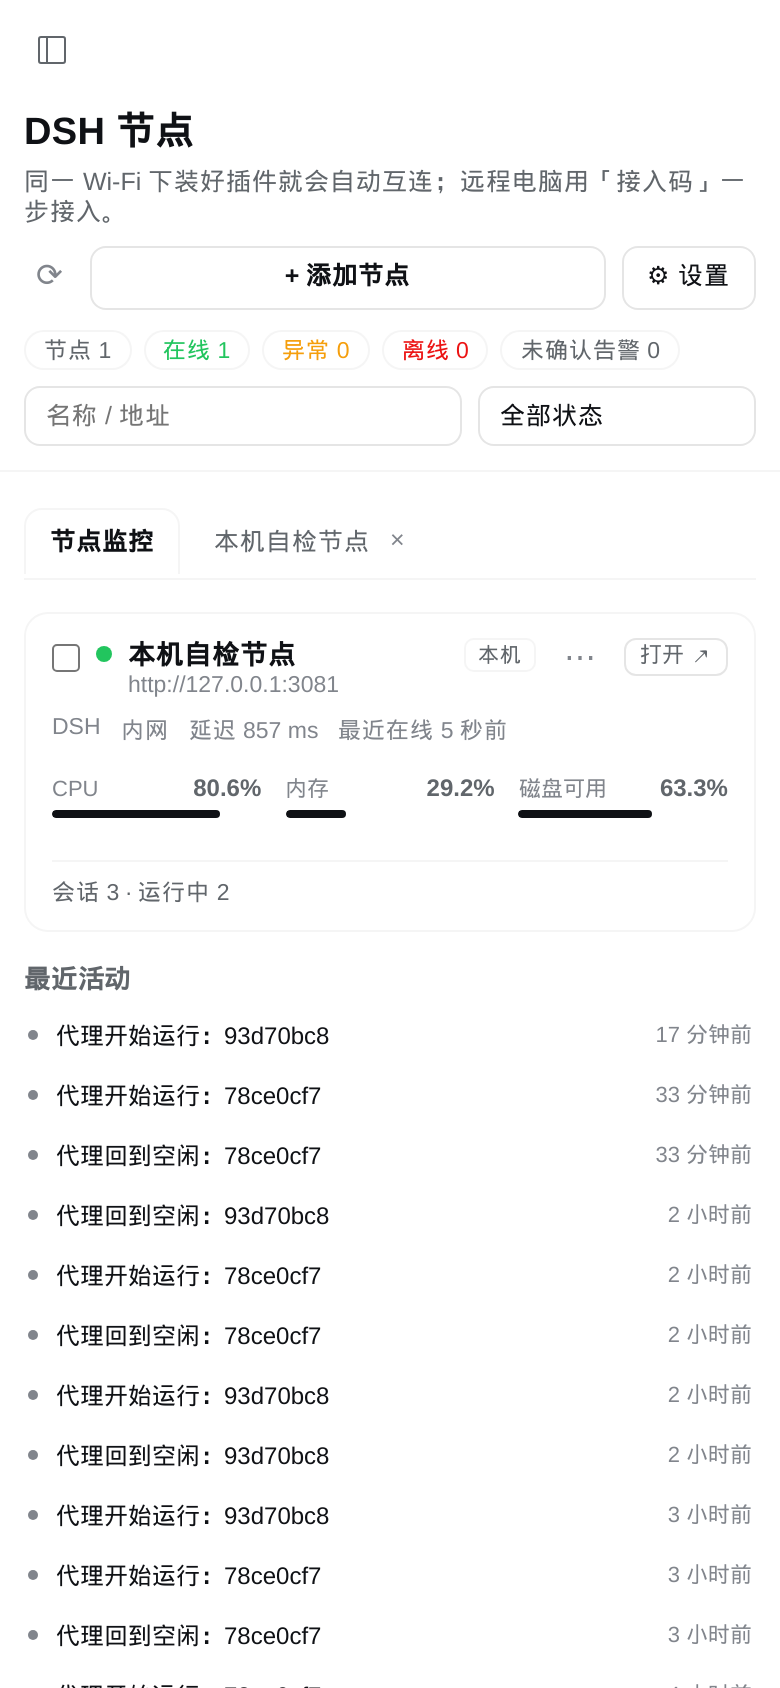
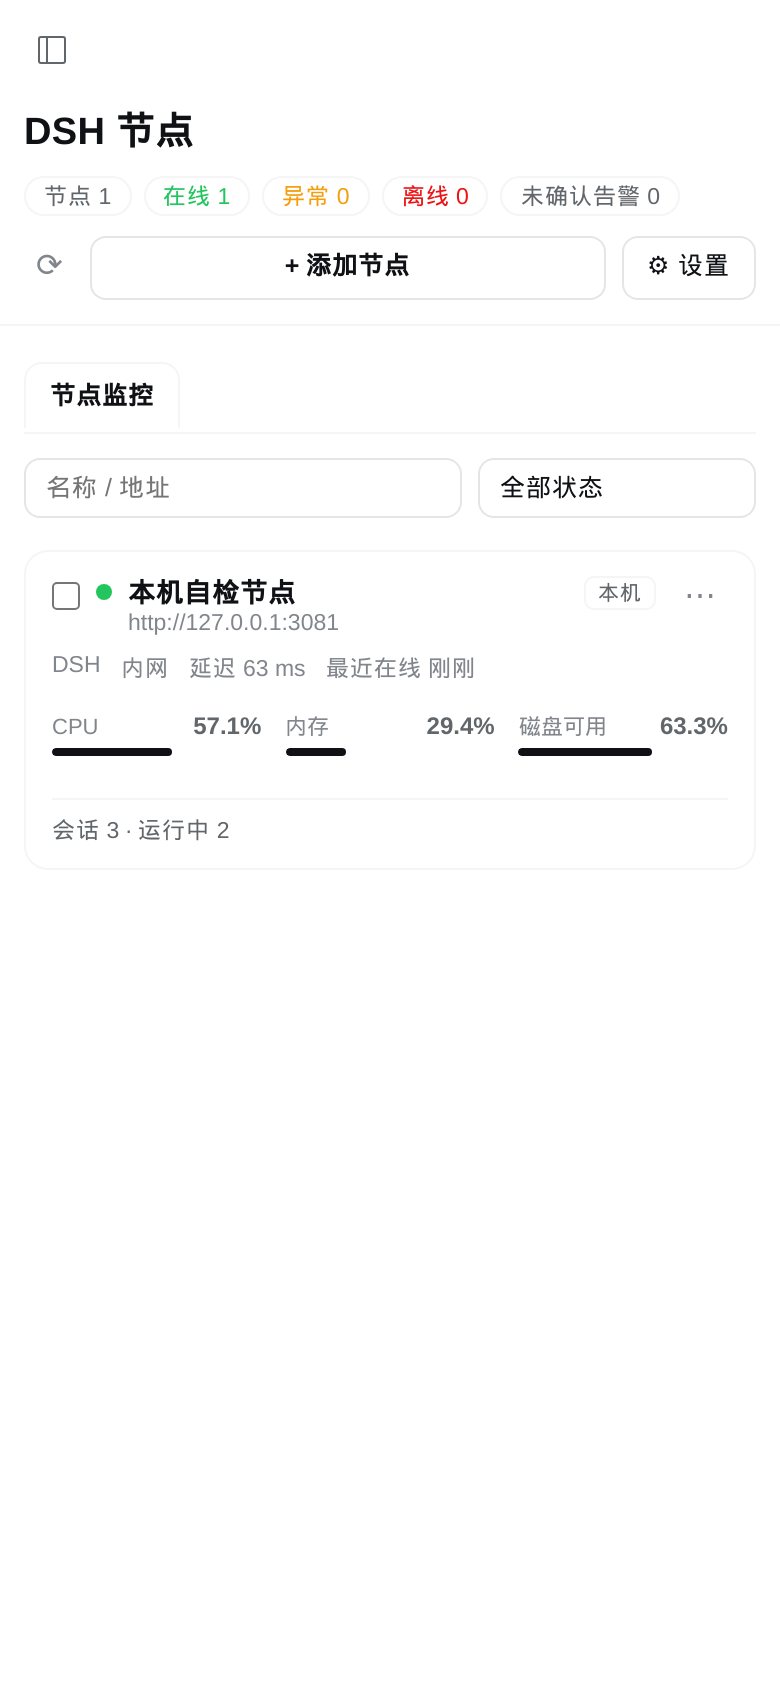
v0.10.6: compact two-row header
- Summary chips join the title line; search/status move to the tabs row
- Drop the subtitle to reclaim vertical space
- Tests 61 (34 core + 27 host)

diff --git a/lib/client.js b/lib/client.js
@@ -3074,13 +3074,8 @@ window.__ModuleLoader__.load({
 
       return h('div', { className: 'nm-panel' }, [
         h('header', { key: 'head', className: 'nm-head' }, [
-          h('div', { key: 'title', className: 'nm-title' }, [h('h2', { key: 'h' }, t('title')), h('p', { key: 'p' }, t('subtitle'))]),
-          h('div', { key: 'actions', className: 'nm-head-actions' }, [
-            h('button', { key: 'refresh', className: 'nm-icon-btn', title: t('actions.refresh'), disabled: st.busy, onClick: () => store.actions.load({ silent: false }) }, st.busy ? '…' : '⟳'),
-            h('button', { key: 'add', className: 'nm-btn nm-btn--primary', onClick: () => store.actions.openModal({ type: 'add' }) }, '+ ' + t('actions.add')),
-            h('button', { key: 'settings', className: 'nm-btn nm-btn--ghost', onClick: () => store.actions.openSettings('connect') }, '⚙ ' + t('actions.settings'))
-          ]),
-          h('div', { key: 'tools', className: 'nm-head-tools' }, [
+          h('div', { key: 'title', className: 'nm-title nm-title-line' }, [
+            h('h2', { key: 'h' }, t('title')),
             summary
               ? h('div', { key: 'summary', className: 'nm-summary' }, [
                   h(Chip, { key: 'nodes', tone: 'neutral' }, `${t('summary.nodes')} ${summary.total}`),
@@ -3089,30 +3084,16 @@ window.__ModuleLoader__.load({
                   h(Chip, { key: 'offline', tone: 'error' }, `${t('summary.offline')} ${summary.offline}`),
                   h(Chip, { key: 'alerts', tone: summary.alertsOpen > 0 ? 'error' : 'neutral' }, `${t('summary.alerts')} ${summary.alertsOpen}`)
                 ])
-              : null,
-            h('input', {
-              key: 'q',
-              className: 'nm-input nm-filter-search',
-              value: (st.filter || {}).q || '',
-              placeholder: t('filter.searchPlaceholder'),
-              'aria-label': t('filter.search'),
-              onChange: (event) => store.actions.setFilter({ q: event.target.value })
-            }),
-            h('select', {
-              key: 'status',
-              className: 'nm-input nm-filter-select',
-              value: (st.filter || {}).status || 'all',
-              onChange: (event) => store.actions.setFilter({ status: event.target.value })
-            }, [
-              h('option', { key: 'all', value: 'all' }, t('filter.statusAll')),
-              h('option', { key: 'online', value: 'online' }, t('status.online')),
-              h('option', { key: 'degraded', value: 'degraded' }, t('status.degraded')),
-              h('option', { key: 'offline', value: 'offline' }, t('status.offline')),
-              h('option', { key: 'unknown', value: 'unknown' }, t('status.unknown'))
-            ])
+              : null
+          ]),
+          h('div', { key: 'actions', className: 'nm-head-actions' }, [
+            h('button', { key: 'refresh', className: 'nm-icon-btn', title: t('actions.refresh'), disabled: st.busy, onClick: () => store.actions.load({ silent: false }) }, st.busy ? '…' : '⟳'),
+            h('button', { key: 'add', className: 'nm-btn nm-btn--primary', onClick: () => store.actions.openModal({ type: 'add' }) }, '+ ' + t('actions.add')),
+            h('button', { key: 'settings', className: 'nm-btn nm-btn--ghost', onClick: () => store.actions.openSettings('connect') }, '⚙ ' + t('actions.settings'))
           ])
         ]),
-        h('nav', { key: 'tabs', className: 'nm-tabs' }, [
+        h('div', { key: 'tabsRow', className: 'nm-tabs-row' }, [
+          h('nav', { key: 'tabs', className: 'nm-tabs' }, [
           h('button', {
             key: 'monitor',
             className: 'nm-tab' + (st.tab === 'monitor' ? ' nm-tab--active' : ''),
@@ -3135,6 +3116,29 @@ window.__ModuleLoader__.load({
               }, '×')
             ])
           )
+          ]),
+          h('div', { key: 'tabTools', className: 'nm-tabs-tools' }, [
+            h('input', {
+              key: 'q',
+              className: 'nm-input nm-filter-search',
+              value: (st.filter || {}).q || '',
+              placeholder: t('filter.searchPlaceholder'),
+              'aria-label': t('filter.search'),
+              onChange: (event) => store.actions.setFilter({ q: event.target.value })
+            }),
+            h('select', {
+              key: 'status',
+              className: 'nm-input nm-filter-select',
+              value: (st.filter || {}).status || 'all',
+              onChange: (event) => store.actions.setFilter({ status: event.target.value })
+            }, [
+              h('option', { key: 'all', value: 'all' }, t('filter.statusAll')),
+              h('option', { key: 'online', value: 'online' }, t('status.online')),
+              h('option', { key: 'degraded', value: 'degraded' }, t('status.degraded')),
+              h('option', { key: 'offline', value: 'offline' }, t('status.offline')),
+              h('option', { key: 'unknown', value: 'unknown' }, t('status.unknown'))
+            ])
+          ])
         ]),
         st.error ? h('div', { key: 'error', className: 'nm-banner' }, [h('span', { key: 'text' }, st.error), h('button', { key: 'retry', className: 'nm-btn nm-btn--ghost', onClick: () => store.actions.load({ silent: false }) }, t('actions.retry'))]) : null,
         st.phase === 'loading' && !data ? h('div', { key: 'loading', className: 'nm-loading' }, [h(Spinner, { key: 's' }), h('span', { key: 't' }, t('loading'))]) : null,
@@ -3181,7 +3185,7 @@ window.__ModuleLoader__.load({
 .nm-drawer-body { flex:1; overflow-y:auto; padding:16px 20px 28px; }
 .nm-drawer-stack { display:flex; flex-direction:column; gap:18px; }
 .nm-panel { display:flex; flex-direction:column; gap:14px; padding:22px 24px 34px; height:100%; overflow-y:auto; box-sizing:border-box; color:var(--dsw-alias-label-primary); font-size:13px; }
-.nm-head { display:flex; align-items:flex-start; justify-content:space-between; gap:16px; flex-wrap:wrap; }
+.nm-head { display:flex; align-items:center; justify-content:space-between; gap:10px 16px; flex-wrap:wrap; }
 .nm-title h2 { margin:0; font-size:19px; font-weight:650; letter-spacing:.2px; }
 .nm-title p { margin:5px 0 0; color:var(--dsw-alias-label-secondary); font-size:12.5px; }
 .nm-head-actions { display:flex; gap:8px; flex-wrap:wrap; }
@@ -3193,11 +3197,14 @@ window.__ModuleLoader__.load({
 .nm-icon-btn { border:none; background:transparent; color:var(--dsw-alias-label-tertiary); cursor:pointer; font-size:16px; line-height:1; padding:3px 6px; border-radius:6px; }
 .nm-icon-btn:hover { background:var(--dsw-alias-interactive-bg-hover); color:var(--dsw-alias-label-primary); }
 
-.nm-head-tools { flex:0 0 100%; display:flex; align-items:center; gap:8px; flex-wrap:wrap; }
-.nm-head-tools .nm-summary { gap:6px; }
-.nm-head-tools .nm-chip { padding:2px 9px; font-size:11.5px; }
-.nm-head-tools .nm-filter-search { flex:1 1 200px; max-width:340px; }
-.nm-head-tools .nm-filter-select { width:auto; min-width:110px; }
+.nm-title-line { display:flex; align-items:center; gap:10px 14px; flex-wrap:wrap; min-width:0; }
+.nm-title-line .nm-summary { gap:6px; flex-wrap:wrap; }
+.nm-title-line .nm-chip { padding:2px 9px; font-size:11.5px; }
+.nm-tabs-row { display:flex; align-items:center; gap:12px; flex-wrap:wrap; margin:-6px 0 2px; }
+.nm-tabs-row .nm-tabs { flex:1 1 auto; min-width:0; margin:0; }
+.nm-tabs-tools { display:flex; align-items:center; gap:8px; margin-left:auto; }
+.nm-tabs-tools .nm-filter-search { flex:0 1 220px; width:220px; min-width:120px; }
+.nm-tabs-tools .nm-filter-select { flex:0 0 auto; width:auto; min-width:110px; }
 .nm-summary { display:flex; gap:8px; flex-wrap:wrap; }
 .nm-chip { display:inline-flex; align-items:center; gap:6px; border-radius:999px; padding:3px 10px; font-size:12px; background:var(--dsw-alias-bg-layer-2); border:1px solid var(--dsw-alias-border-l1); color:var(--dsw-alias-label-secondary); }
 .nm-chip--ok { color:var(--dsw-alias-state-success-primary); }
@@ -3269,10 +3276,12 @@ window.__ModuleLoader__.load({
 .nm-hub { margin-top:10px; }
 @media (max-width:760px) {
 .nm-head { position:static; display:flex; flex-direction:column; flex-wrap:nowrap; align-items:stretch; gap:10px; margin:-22px -16px 10px; padding:14px 16px 12px; }
-.nm-head-tools { flex:1 1 100%; width:100%; }
-.nm-head-tools .nm-filter-search { flex:1 1 58%; min-width:0; max-width:none; }
-.nm-head-tools .nm-filter-select { flex:0 0 38%; min-width:0; }
-.nm-head-tools .nm-summary { width:100%; overflow-x:auto; flex-wrap:nowrap; }
+.nm-title-line { align-items:flex-start; }
+.nm-title-line .nm-summary { width:100%; overflow-x:auto; flex-wrap:nowrap; }
+.nm-tabs-row { align-items:stretch; }
+.nm-tabs-tools { width:100%; margin-left:0; }
+.nm-tabs-tools .nm-filter-search { flex:1 1 58%; width:auto; min-width:0; }
+.nm-tabs-tools .nm-filter-select { flex:0 0 38%; min-width:0; }
 .nm-head-actions { width:100%; justify-content:space-between; }
 .nm-head-actions .nm-btn--primary { flex:1; justify-content:center; }
 .nm-card-open--secondary { display:none; }

diff --git a/lib/index.js b/lib/index.js
@@ -31,7 +31,7 @@ const AUTH_FAIL_LIMIT = 20
 const REQUEST_WINDOW_MS = 60_000
 const REQUEST_LIMIT = 240
 const DISK_CACHE_MS = 30_000
-const PLUGIN_VERSION = '0.10.5'
+const PLUGIN_VERSION = '0.10.6'
 
 function normalizePublicUrl(value) {
   const text = core.cleanText(value, 300).replace(/\/+$/, '')

diff --git a/docs/CHANGELOG.md b/docs/CHANGELOG.md
@@ -1,5 +1,11 @@
 ## v0.8.0 — 2026-11-15
 
+## v0.10.6 — 2026-11-16
+
+- 汇总指标移到标题同一行；搜索与状态筛选移入标签页右侧，标题区从三行压到两行。
+- 移除标题下的副标题，标题栏更紧凑。
+- 测试 61（34 core + 27 host）。
+
 ## v0.10.5 — 2026-11-16
 
 - 侧栏/商店图标去掉右上角绿点，保留干净的显示器轮廓。
